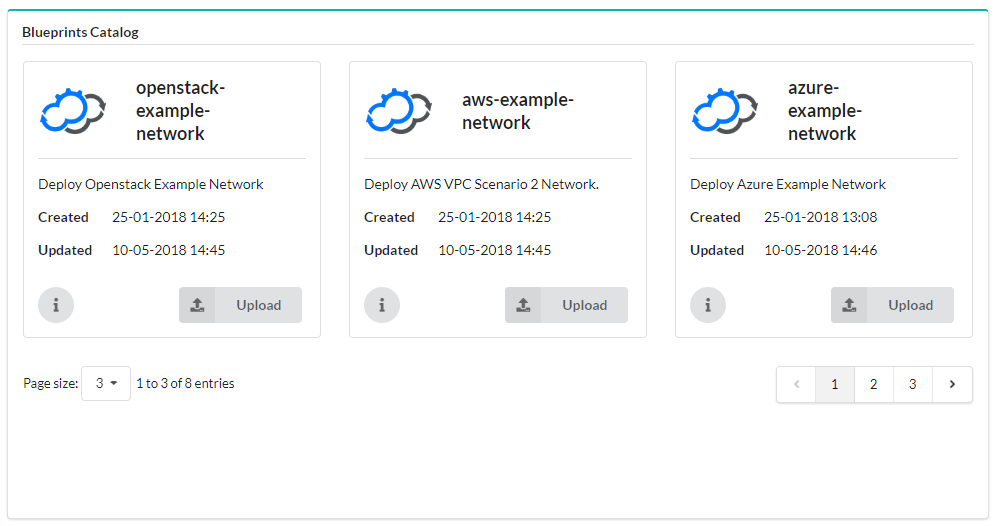
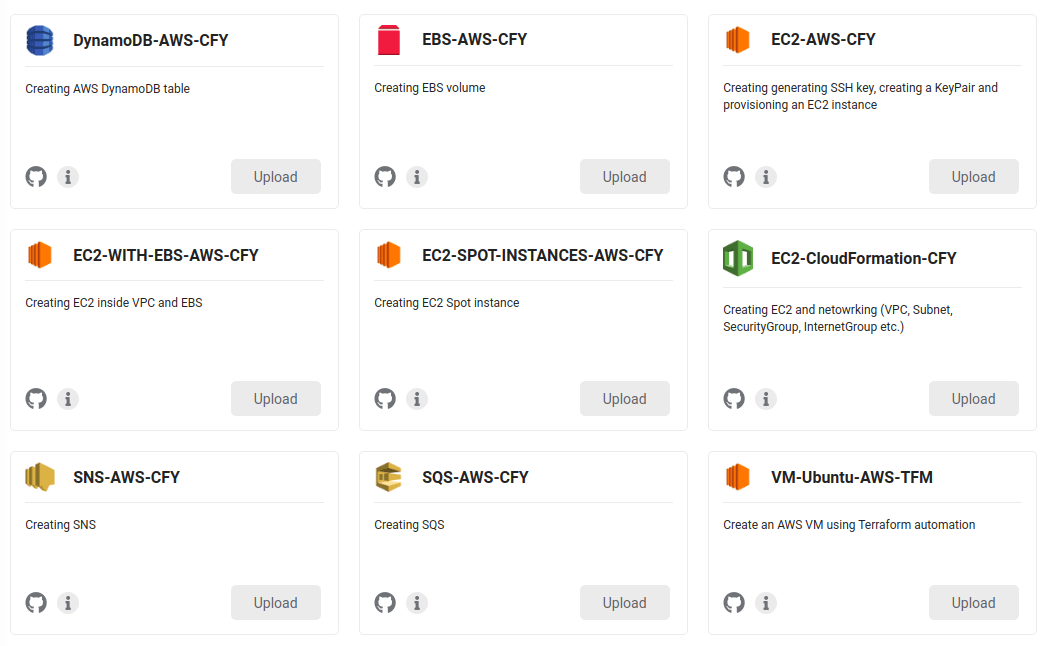
RD-6521 Remove border and header from Blueprints Catalog widget (#2329)
* Remove border and header from Blueprints Catalog widget
* Update thumbnail
* Increase application size limit
* Fix test

diff --git a/test/cypress/integration/page_spec.ts b/test/cypress/integration/page_spec.ts
@@ -28,7 +28,7 @@ describe('Page', () => {
     function verifyAllWidgetsVisible() {
         cy.contains('.widgetName', 'Blueprints').should('be.visible');
         cy.contains('.widgetName', 'Cluster Status').should('be.visible');
-        cy.contains('.widgetName', 'Catalog').should('be.visible');
+        cy.contains('.widgetName', 'Filters').should('be.visible');
         cy.get('.blueprintNumWidget').should('be.visible');
     }
 
@@ -62,7 +62,7 @@ describe('Page', () => {
         cy.wait('@updateUserApps');
 
         cy.contains('.widgetName', 'Cluster Status').should('not.be.visible');
-        cy.contains('.widgetName', 'Catalog').should('not.be.visible');
+        cy.contains('.widgetName', 'Filters').should('not.be.visible');
         cy.get('.blueprintNumWidget').should('not.be.visible');
 
         cy.log('Verify maximize state is not saved for widgets in tabs');
@@ -70,7 +70,7 @@ describe('Page', () => {
         verifyAllWidgetsVisible();
 
         cy.log('Verify widget maximize button works for top level widgets');
-        cy.get('.blueprintCatalogWidget .expand').click({ force: true });
+        cy.get('.filtersWidget .expand').click({ force: true });
         cy.wait('@updateUserApps');
 
         cy.contains('.widgetName', 'Cluster Status').should('not.be.visible');
@@ -79,13 +79,13 @@ describe('Page', () => {
 
         cy.log('Verify maximize state is saved for top level widgets');
         cy.refreshTemplate();
-        cy.contains('.widgetName', 'Catalog').should('be.visible');
+        cy.contains('.widgetName', 'Filters').should('be.visible');
         cy.contains('.widgetName', 'Blueprints').should('not.be.visible');
         cy.contains('.widgetName', 'Cluster Status').should('not.be.visible');
         cy.get('.blueprintNumWidget').should('not.be.visible');
 
         cy.log('Verify widget collapse button works');
-        cy.get('.blueprintCatalogWidget .compress').click({ force: true });
+        cy.get('.filtersWidget .compress').click({ force: true });
         cy.wait('@updateUserApps');
 
         verifyAllWidgetsVisible();

diff --git a/widgets/blueprintCatalog/src/widget.tsx b/widgets/blueprintCatalog/src/widget.tsx
@@ -34,6 +34,8 @@ Stage.defineWidget<WidgetParameters, BlueprintCatalogPayload | Error, BlueprintC
     initialHeight: 20,
     isReact: true,
     hasReadme: true,
+    showHeader: false,
+    showBorder: false,
     permission: Stage.GenericConfig.WIDGET_PERMISSION('blueprintCatalog'),
     categories: [Stage.GenericConfig.CATEGORY.BLUEPRINTS],
 
